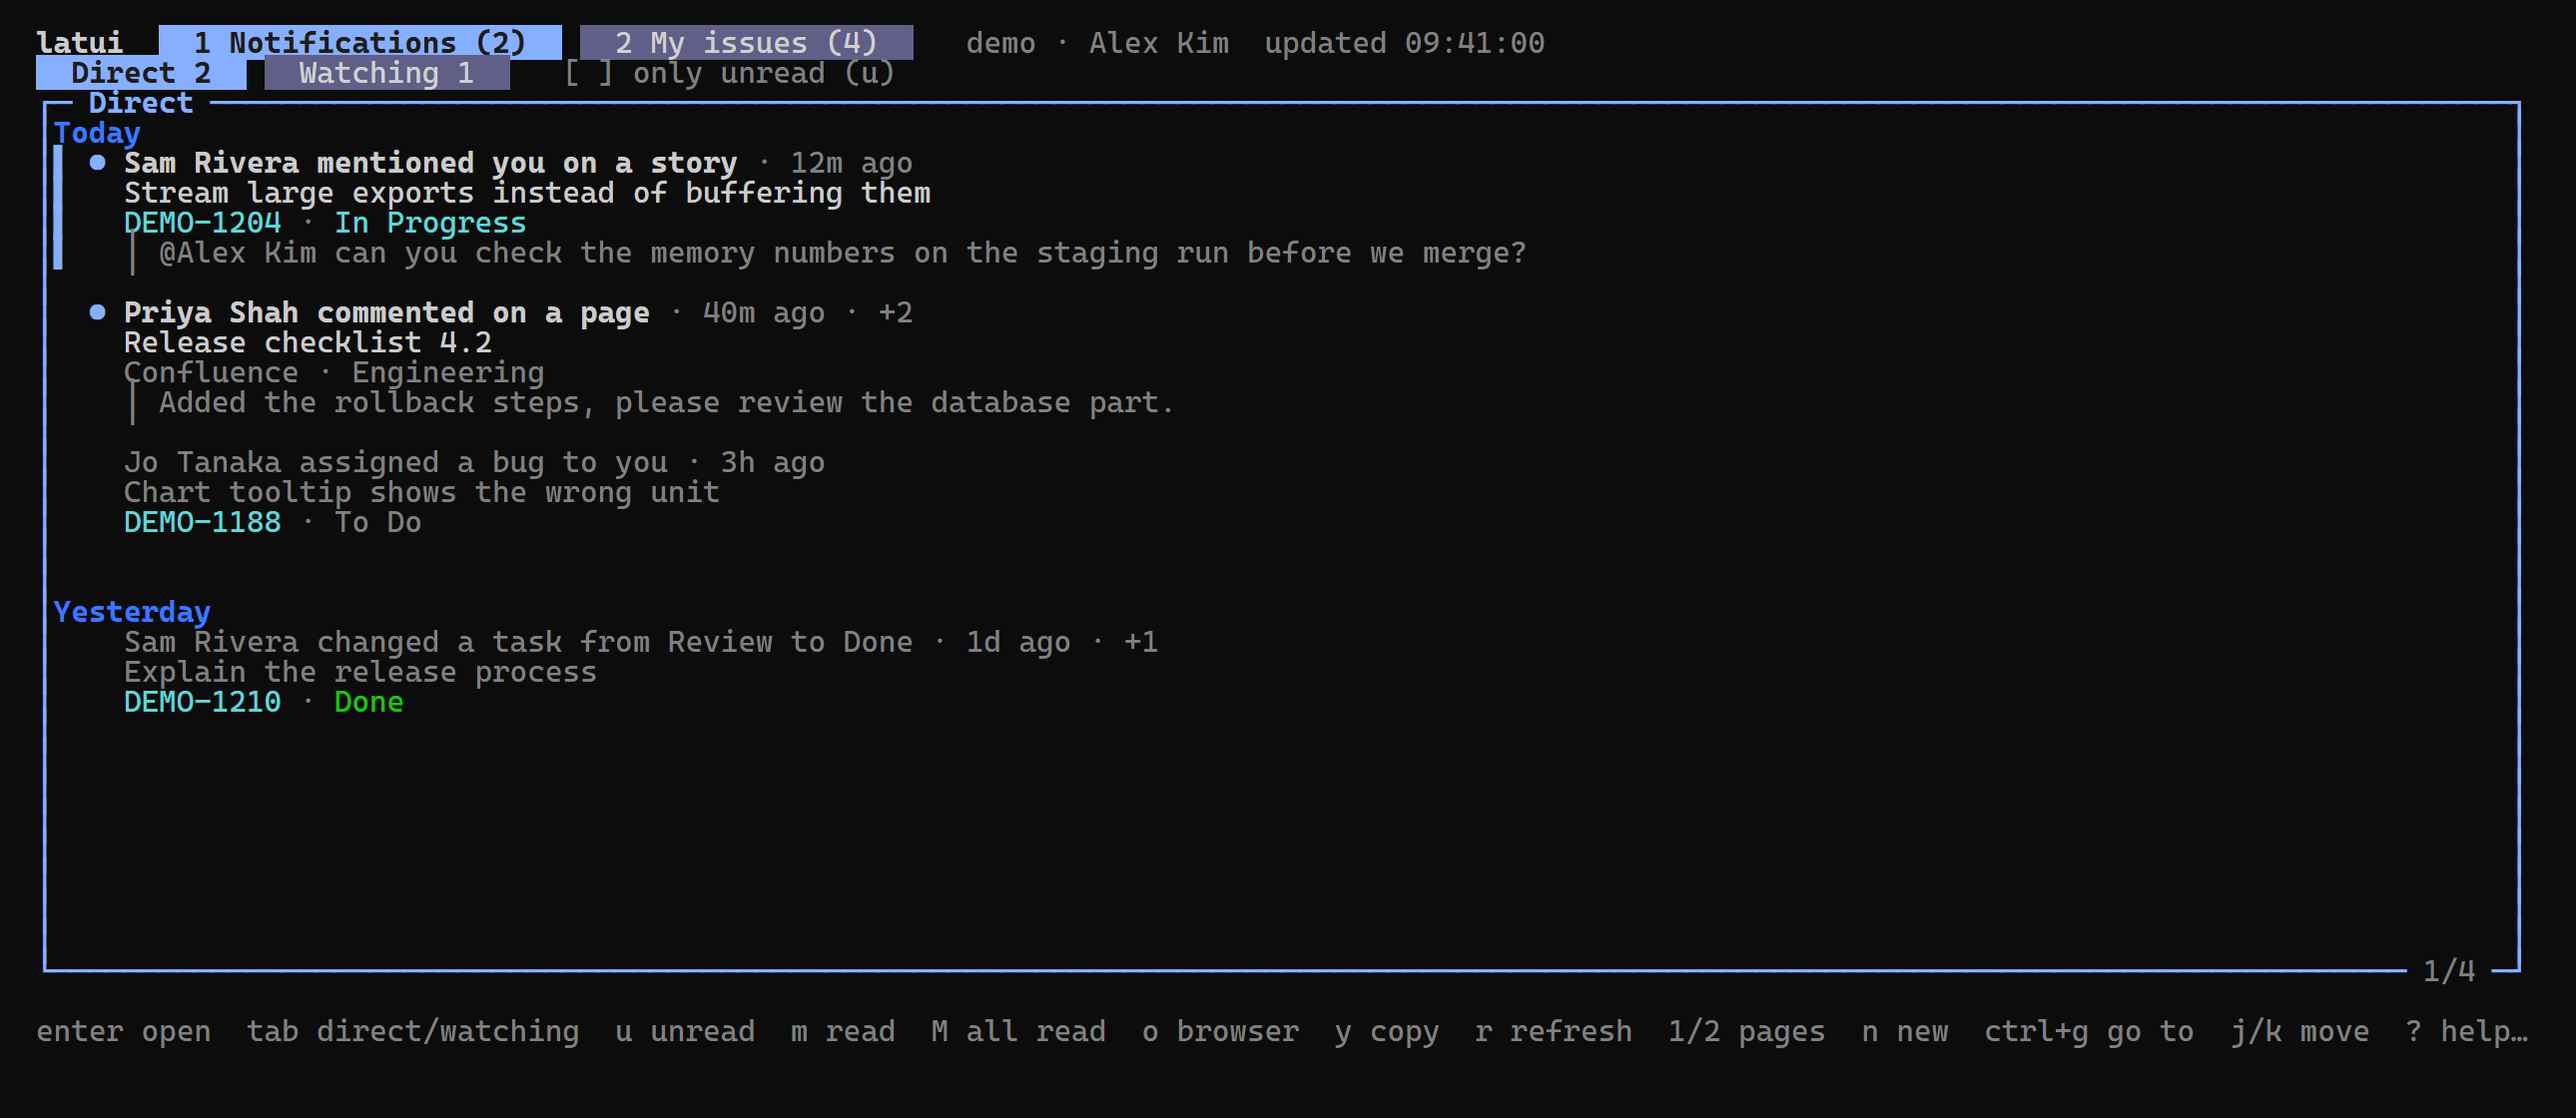
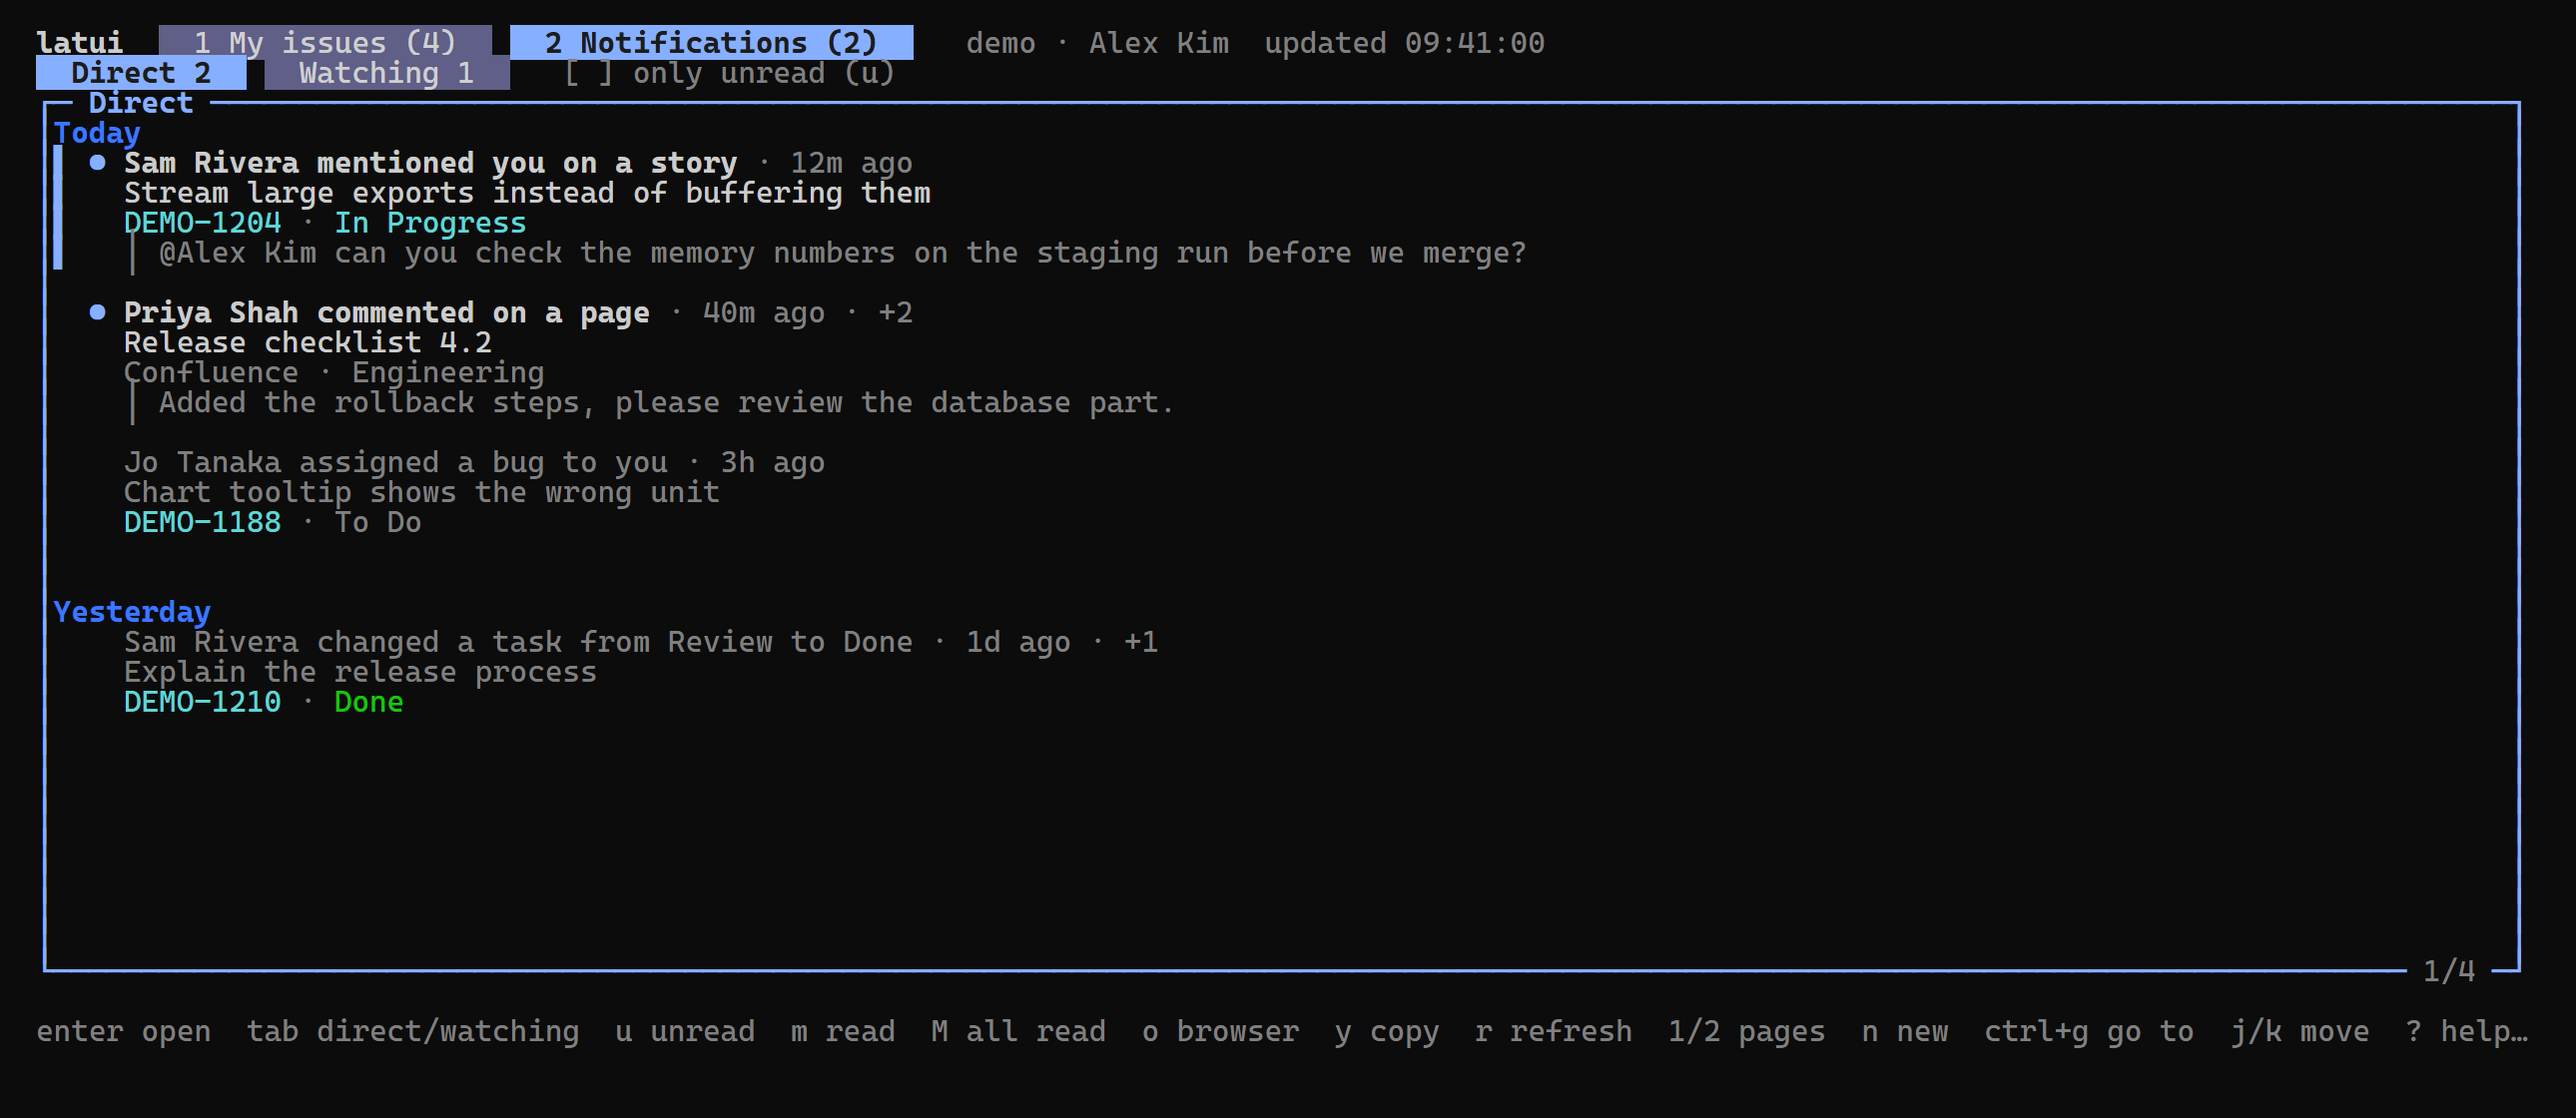
feat: My issues is the first page, Notifications the second

Changed region(s): [[0.062, 0.0, 0.3721, 0.0625]]

diff --git a/internal/ui/myissues_test.go b/internal/ui/myissues_test.go
@@ -31,9 +31,9 @@ func issuesJira() *fakeJira {
 func TestMyIssuesSections(t *testing.T) {
 	j := issuesJira()
 	m := started(t, j, sampleFeed())
-	m = run(t, m, key("2"))
+	m = run(t, m, key("1"))
 	s := screen(m)
-	for _, want := range []string{"2 My issues (4)", "Assigned 4", "Reported", "▾ In Progress (2)", "▾ To Do (1)", "▸ Deferred (1)"} {
+	for _, want := range []string{"1 My issues (4)", "Assigned 4", "Reported", "▾ In Progress (2)", "▾ To Do (1)", "▸ Deferred (1)"} {
 		if !strings.Contains(s, want) {
 			t.Errorf("screen lacks %q:\n%s", want, s)
 		}
@@ -69,7 +69,7 @@ func TestMyIssuesSections(t *testing.T) {
 func TestRowActionRunsIssueKey(t *testing.T) {
 	j := issuesJira()
 	m := started(t, j, sampleFeed())
-	m = run(t, m, key("2"))
+	m = run(t, m, key("1"))
 	m = run(t, m, key("j")) // the first issue under In Progress
 	m = run(t, m, key("A"))
 	if _, ok := m.modal.(*pickerModal); !ok {

diff --git a/internal/ui/ui_test.go b/internal/ui/ui_test.go
@@ -192,7 +192,8 @@ func started(t *testing.T, j *fakeJira, f *fakeFeed) Model {
 	t.Helper()
 	m := New(j, f, time.Minute)
 	m = run(t, m, tea.WindowSizeMsg{Width: 140, Height: 40})
-	return run(t, m, m.start()())
+	m = run(t, m, m.start()())
+	return run(t, m, key("2")) // most tests here are about Notifications
 }
 
 func screen(m Model) string { return ansi.Strip(m.View()) }
@@ -201,7 +202,7 @@ func TestNotificationsShowGroups(t *testing.T) {
 	m := started(t, &fakeJira{issue: sampleIssue()}, sampleFeed())
 	s := screen(m)
 	for _, want := range []string{
-		"1 Notifications (1)", "Direct 1", "Watching 1", "Today",
+		"2 Notifications (1)", "Direct 1", "Watching 1", "Today",
 		"Priya Shah mentioned you on a page", "+2", "Confluence · Quality Assurance",
 		"DEMO-42 · In Progress", "│ Memory stays flat with streaming",
 	} {

diff --git a/internal/ui/shots_test.go b/internal/ui/shots_test.go
@@ -87,6 +87,10 @@ func TestShots(t *testing.T) {
 	}
 	m.me.DisplayName = "Alex Kim"
 	m.site.Site = "demo.atlassian.net"
+	for _, l := range m.issues.views {
+		l.fetchedAt = time.Date(2026, 10, 10, 9, 41, 0, 0, time.Local)
+	}
+	m = run(t, m, key("2"))
 	save("1-notifications", m.View())
 
 	m = run(t, m, openIssueMsg{key: "DEMO-1204"})
@@ -95,7 +99,7 @@ func TestShots(t *testing.T) {
 	m = run(t, m, key("t"))
 	save("3-transition", m.View())
 	m.modal, m.issue = nil, nil
-	m = run(t, m, key("2"))
+	m = run(t, m, key("1"))
 	save("4-my-issues", m.View())
 	m = run(t, m, key("n"))
 	save("5-create", m.View())

diff --git a/internal/ui/live_test.go b/internal/ui/live_test.go
@@ -31,8 +31,9 @@ func TestLive(t *testing.T) {
 	if v := m.notes.view(); v.err != nil {
 		t.Fatal(v.err)
 	}
-	save(t, "notifications", m.View())
 	m = run(t, m, key("2"))
+	save(t, "notifications", m.View())
+	m = run(t, m, key("1"))
 	if l := m.issues.list(); l.err != nil {
 		t.Fatal(l.err)
 	}
@@ -43,7 +44,7 @@ func TestLive(t *testing.T) {
 	}
 	save(t, "create", m.View())
 	m = run(t, m, key("esc"))
-	m = run(t, m, key("1"))
+	m = run(t, m, key("2"))
 	m = run(t, m, key("tab"))
 	save(t, "watching", m.View())
 	m = run(t, m, key("tab"))

diff --git a/internal/ui/keys.go b/internal/ui/keys.go
@@ -44,7 +44,7 @@ var (
 		{keys: "r", desc: "refresh", press: "r", hint: "refresh"},
 	}
 	pageKeys = []binding{
-		{keys: "1 / 2", desc: "Notifications / My issues page", hint: "pages"},
+		{keys: "1 / 2", desc: "My issues / Notifications page", hint: "pages"},
 		{keys: "[ / ]", desc: "previous / next page", press: "]"},
 		{keys: "n", desc: "new issue (in Issue detail: or a subtask of it)", press: "n", hint: "new"},
 		{keys: "ctrl+g", desc: "go to an issue by key, number or link", press: "ctrl+g", hint: "go to"},

diff --git a/internal/ui/view.go b/internal/ui/view.go
@@ -48,15 +48,15 @@ func (m Model) View() string {
 }
 
 func (m Model) pageLabels() []string {
-	label := "1 Notifications"
+	label := "2 Notifications"
 	if c := m.notes.counts[0].String(); c != "" {
 		label += " (" + c + ")"
 	}
-	issues := "2 My issues"
+	issues := "1 My issues"
 	if l := m.issues.views[tabAssigned]; l.loaded {
 		issues += fmt.Sprintf(" (%d)", len(l.rows))
 	}
-	return []string{label, issues}
+	return []string{issues, label}
 }
 
 func (m Model) titleLine() string {

diff --git a/internal/ui/model.go b/internal/ui/model.go
@@ -30,7 +30,7 @@ type Model struct {
 
 	width, height int
 
-	page   int // pageNotifications or pageIssues
+	page   int // pageIssues or pageNotifications
 	notes  *notesPage
 	issues *issuesPage
 	issue  *issueModel // non-nil while Issue detail is open
@@ -52,8 +52,8 @@ type Model struct {
 
 // Pages.
 const (
-	pageNotifications = iota
-	pageIssues
+	pageIssues = iota
+	pageNotifications
 	pageCount
 )
 

diff --git a/README.md b/README.md
@@ -100,8 +100,8 @@ The same keys mean the same thing everywhere, as in lazdo: `j`/`k` move,
 goes back, `y` copy menu, `o` browser, `r` refresh, `?` help (type to search
 it, `enter` runs the key), `q` quit.
 
-![Notifications](docs/screenshots/1-notifications.png)
 ![My issues](docs/screenshots/4-my-issues.png)
+![Notifications](docs/screenshots/1-notifications.png)
 ![Issue detail](docs/screenshots/2-issue.png)
 ![New issue](docs/screenshots/5-create.png)
 
@@ -125,7 +125,7 @@ it, `enter` runs the key), `q` quit.
 
 | Anywhere | |
 |---|---|
-| `1` / `2`, `[` / `]` | Notifications / My issues page |
+| `1` / `2`, `[` / `]` | My issues / Notifications page |
 | `n` | new issue (in Issue detail: or a subtask of it) |
 | `ctrl+g` | go to an issue |
 
